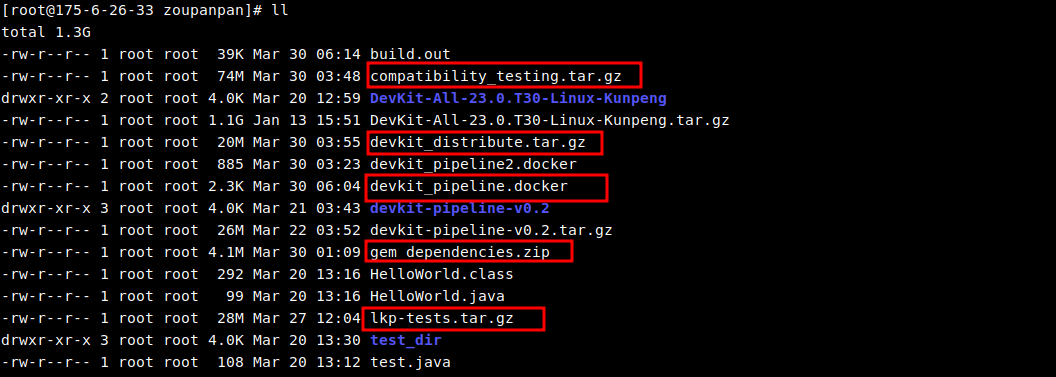
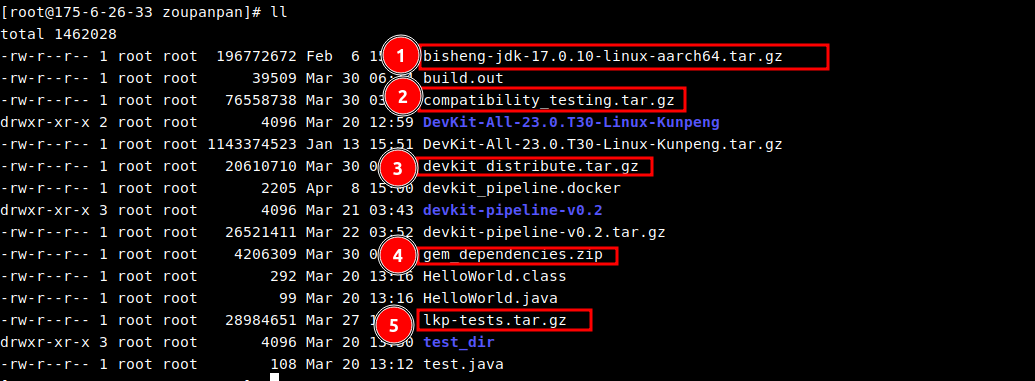
Docker资料修改

Changed region(s): [[0.0, 0.0, 0.8039, 1.0]]

diff --git a/document/DockerFile配置/Docker镜像生成手册.md b/document/DockerFile配置/Docker镜像生成手册.md
@@ -1,4 +1,4 @@
-##                          
+##            
 
 ### 1. 创建dockerfile，内容例如：
 
@@ -8,13 +8,12 @@
 ```dockerfile
 from openeuler-20.03-lts-sp2:latest
 WORKDIR  /root
+ADD bisheng-jdk-17.0.10-linux-aarch64.tar.gz /root/.local/
 ADD lkp-tests.tar.gz /root/.local/
 ADD devkit_distribute.tar.gz /root/.local/
 ADD compatibility_testing.tar.gz /root/.local/
 COPY gem_dependencies.zip  /usr/share/gems/gems/gem_dependencies.zip
-RUN   chmod 755 /root/.local/lkp-tests/programs/devkit_distribute/bin/start.sh && \
-  ln -s /root/.local/lkp-tests/programs/devkit_distribute/bin/start.sh /root/.local/lkp-tests/tests/devkit_distribute && \
-  yum install -y git wget rubygems make  && \
+RUN  yum install -y git rubygems make  && \
   cd /usr/share/gems/gems && unzip gem_dependencies.zip && \
   cd /usr/share/gems/gems/gem_dependencies && \
   gems_name=(zeitwerk-2.6.5.gem unicode-display_width-2.5.0.gem tzinfo-2.0.5.gem tins-1.31.1.gem term-ansicolor-1.7.1.gem sync-0.5.0.gem \
@@ -33,12 +32,16 @@ concurrent-ruby-1.1.10.gem ci_reporter-2.0.0.gem bundler-2.2.33.gem builder-3.2.
   ln -s /root/.local/lkp-tests/programs/compatibility-test/run /root/.local/lkp-tests/tests/compatibility-test && \
   cd /root/.local/lkp-tests/programs/compatibility-test/ && \
   lkp split /root/.local/lkp-tests/programs/compatibility-test/jobs/compatibility-test.yaml && \
-  chown -R root:root /root/.local/lkp-tests
+  chown -R root:root /root/.local/lkp-tests /root/.local/devkit_distribute /root/.local/bisheng-jdk-17.0.10 /root/.local/compatibility_testing
 ```
 
 #### 下载包到同一目录
 
-![](00_下载资源.png)
+[下载毕昇JDK17](https://mirrors.huaweicloud.com/kunpeng/archive/compiler/bisheng_jdk/bisheng-jdk-17.0.10-linux-aarch64.tar.gz)
+![](00_下载资源01.png)
+[测试平台依赖下载](https://gitee.com/openeuler/devkit-pipeline/releases/tag/v0.2)
+![](00_下载资源02.png)
+
 ![](01_准备资源.png)
 
 #### 执行构建命令
